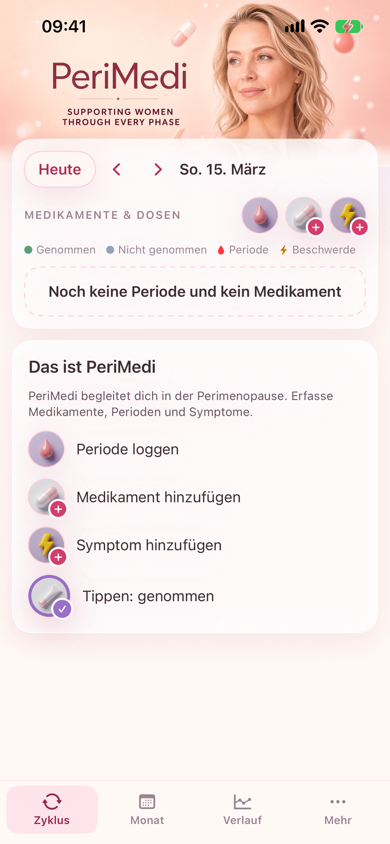
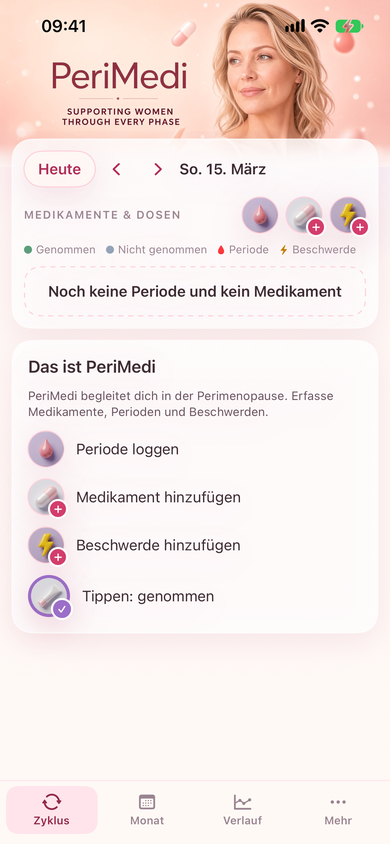
fix(l10n): use Beschwerde on the empty Cycle screen
The German legend, the add row, and the empty sentence use the same word. The copy-review folder is named in the screen catalog note.

diff --git a/ios/PeriMedi/App/L10n.swift b/ios/PeriMedi/App/L10n.swift
@@ -362,7 +362,7 @@ enum L10n {
         "diagram.emptyMedsTitle": "Noch keine Periode und kein Medikament",
         "diagram.emptyMedsBody": "Logge eine Periode und füge ein Medikament hinzu, um auf dem Zyklus zu tracken.",
         "diagram.emptyTitle": "Das ist PeriMedi",
-        "diagram.emptyBody": "PeriMedi begleitet dich in der Perimenopause. Erfasse Medikamente, Perioden und Symptome.",
+        "diagram.emptyBody": "PeriMedi begleitet dich in der Perimenopause. Erfasse Medikamente, Perioden und Beschwerden.",
         "diagram.emptyToggleTaken": "Tippen: genommen",
         "diagram.needPeriodTitle": "Keine Periode geloggt",
         "diagram.needPeriodBody": "Logge eine Periode, damit die Tage zum Zyklus passen.",
@@ -370,7 +370,7 @@ enum L10n {
         "diagram.needMedBody": "Füge eines mit dem Pillen-Button oben hinzu.",
         "diagram.emptyAddPeriod": "Periode loggen",
         "diagram.emptyAddMedHint": "Medikament hinzufügen",
-        "diagram.emptyAddSymptomHint": "Symptom hinzufügen",
+        "diagram.emptyAddSymptomHint": "Beschwerde hinzufügen",
         "diagram.cycleDays": "Tage",
         "diagram.cyclePeriodMeta": "{{cycle}} T · {{period}} T Periode",
         "diagram.noPeriod": "Keine Periode",

diff --git a/ios/docs/screens.md b/ios/docs/screens.md
@@ -2,6 +2,8 @@
 
 Main-screen Simulator PNGs live in `screens/`. `expected.txt` lists sixteen English catalog names, `sheet-symptom-pill-de.png`, and the two widget pictures. `ScreenCatalogTests` writes the sixteen English names by navigating a few sessions (empty, sample, Trends fixture, no-scores), not one app launch per file. It switches to German only to write `sheet-symptom-pill-de.png`. The widget journey rewrites `widget-medium-before-en.png` and `widget-medium-after-en.png` on every run, including `drive` and GitHub. Commit the PNGs. UX reviews the **image diff in Files changed**. CI does not rewrite the catalog pictures. It only fails if a committed file is missing. Skip the catalog writer locally with `SCREEN_CATALOG=0`.
 
+`ios/docs/copy-review/` holds one-off #44 German before/after copy shots, is not in `expected.txt`, is not checked by `check-screen-catalog.py`, and may be deleted after merge.
+
 Do **not** paste screenshot galleries into PR comments. Do **not** use a per-PR dump (`pr-41-simulator` or any pull-request id in the path).
 
 English catalog pictures: Cycle empty, Cycle with data, Trends empty, Trends with data, Trends Choose Symptoms sheet, Trends dot tap, Trends dose-tick sentence, Trends no-scores, Month, More, visit cycle picker, in-app visit PDF preview, add-medication sheet, period sheet, symptom sheet, and the symptom sheet with a wrapped custom name. The one German catalog picture is the New symptom pill (`sheet-symptom-pill-de.png`). The widget pictures are the medium card before and after Take. Names are `{screen}-{state}-{locale}.png` (see `screens/expected.txt`). Do not keep old chip-cloud layout shots.
